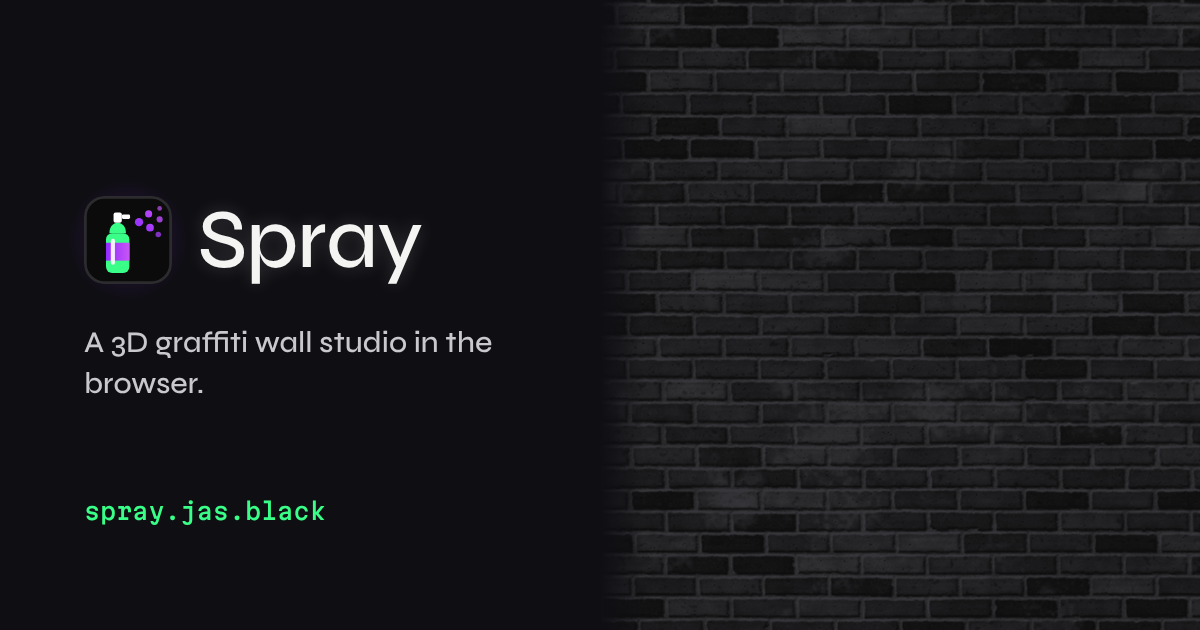
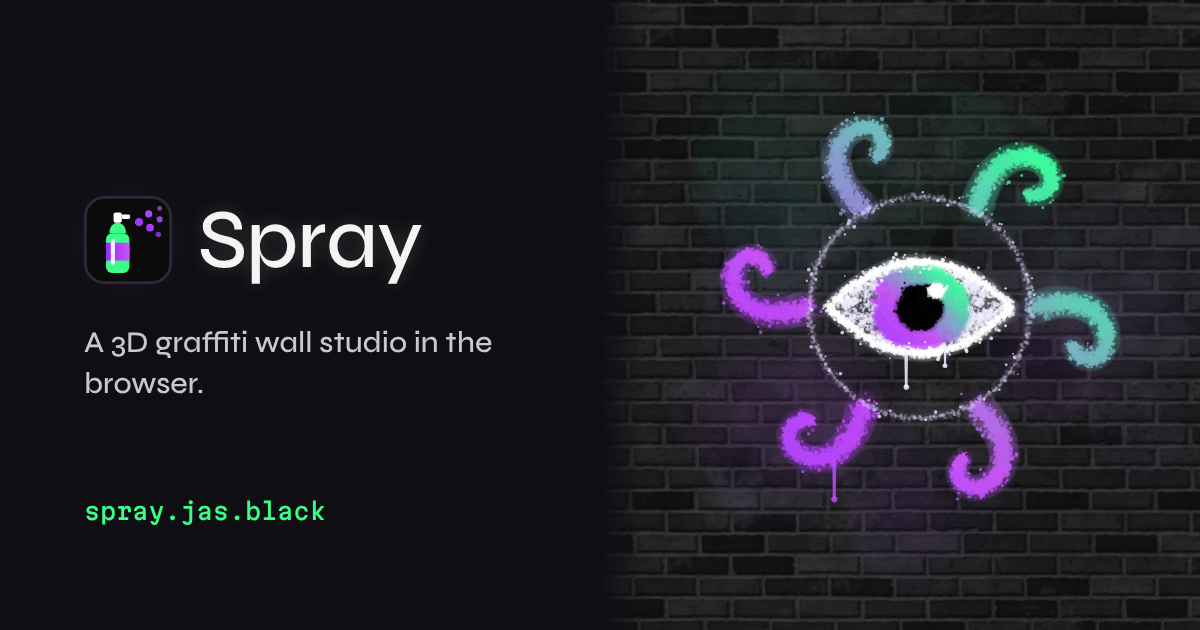
Link preview: the JAS.BLACK eye sprayed on the wall
Claude-Session: https://claude.ai/code/session_01UGJeS2k71XurS5uUjRGgrK

Changed region(s): [[0.5858, 0.181, 0.9558, 0.8143]]

diff --git a/index.html b/index.html
@@ -13,7 +13,7 @@
 <meta property="og:image" content="https://spray.jas.black/og.png">
 <meta property="og:image:width" content="1200">
 <meta property="og:image:height" content="630">
-<meta property="og:image:alt" content="Spray: a 3D graffiti wall studio in the browser. A dark brick wall">
+<meta property="og:image:alt" content="Spray: a 3D graffiti wall studio in the browser. The JAS.BLACK eye sprayed on a dark brick wall">
 <meta name="twitter:image" content="https://spray.jas.black/og.png">
 <meta property="og:url" content="https://spray.jas.black/">
 <meta name="twitter:card" content="summary_large_image">

diff --git a/build.py b/build.py
@@ -46,7 +46,7 @@ def build():
 <meta property="og:image" content="https://spray.jas.black/og.png">
 <meta property="og:image:width" content="1200">
 <meta property="og:image:height" content="630">
-<meta property="og:image:alt" content="Spray: a 3D graffiti wall studio in the browser. A dark brick wall">
+<meta property="og:image:alt" content="Spray: a 3D graffiti wall studio in the browser. The JAS.BLACK eye sprayed on a dark brick wall">
 <meta name="twitter:image" content="https://spray.jas.black/og.png">
 <meta property="og:url" content="https://spray.jas.black/">
 <meta name="twitter:card" content="summary_large_image">
